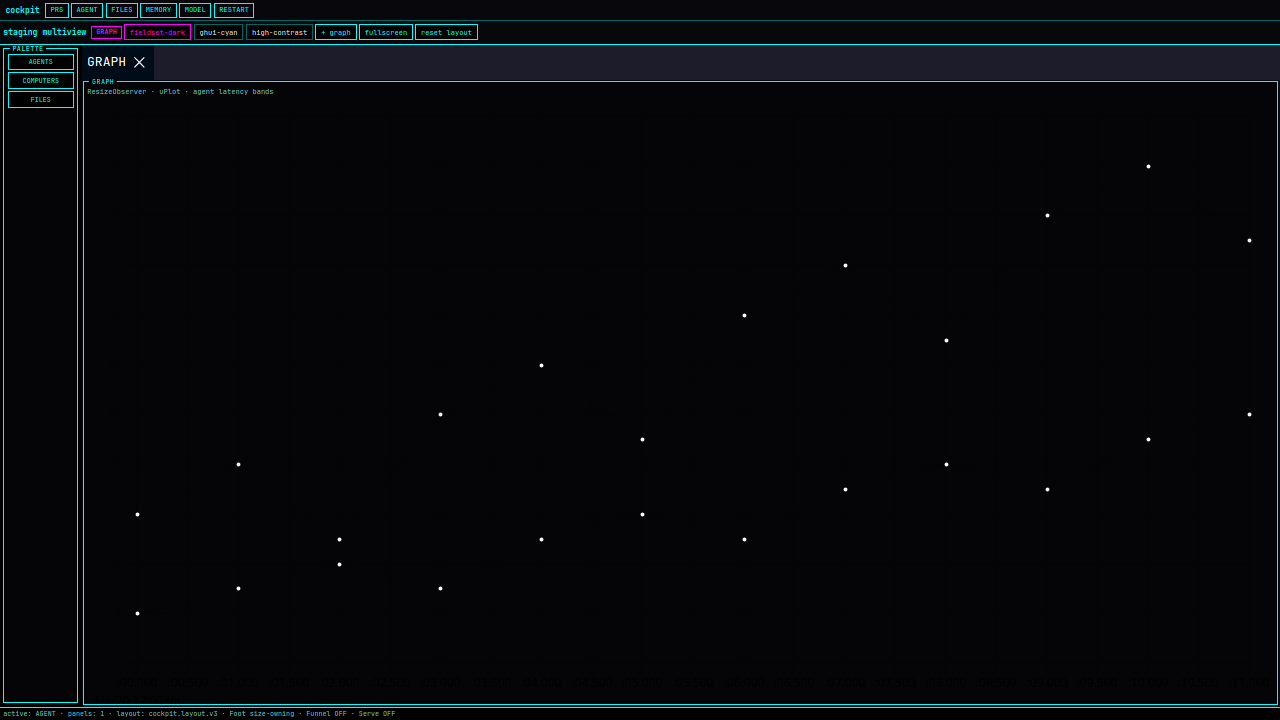
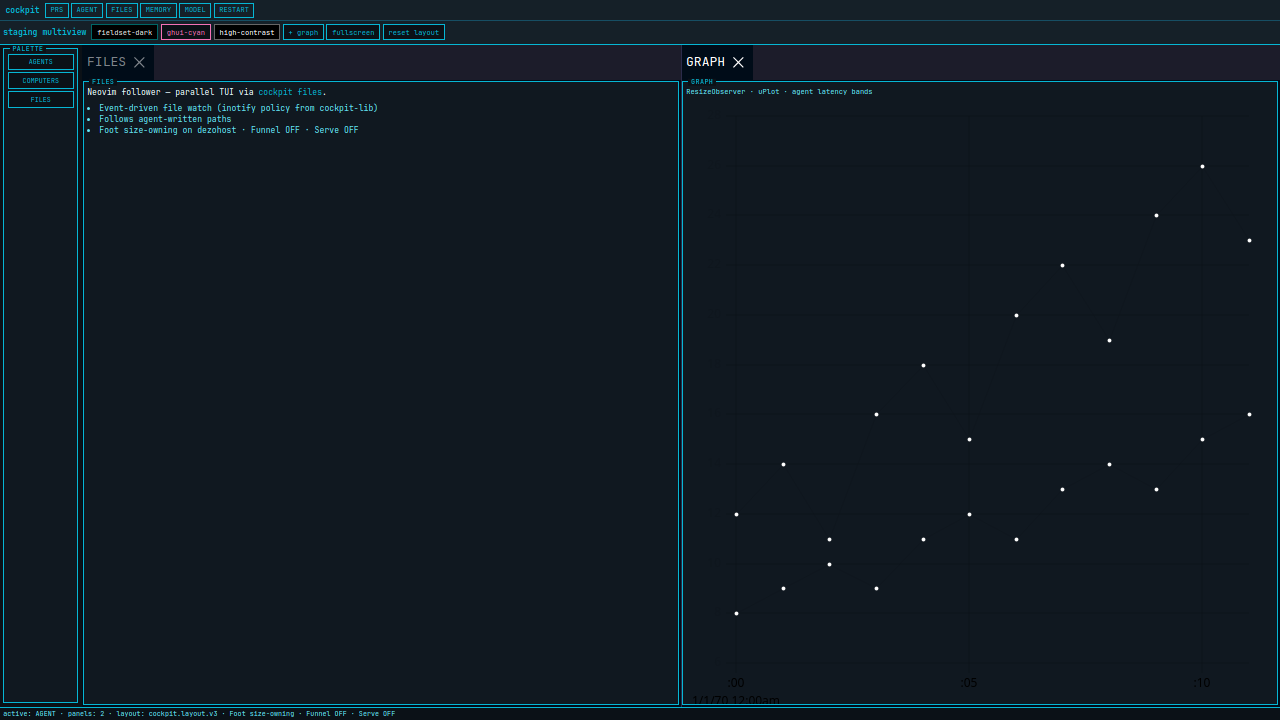
fix(t12u-next): Canon residual_hashes closure + distinct action-frame demos
- MANIFEST: residual_hashes (Hostinger-LIVE Canon) + residuals_closed_at
- verify-residuals.sh: assert 4 unique residual hashes + trio gate
- Soft-land distinct demos: ghui-cyan FILES-only theme proof; FILES+GRAPH graph/fullscreen; focus on ghui-cyan switcher
- Score t12u-live-cpr: residuals_closed, kick_ready
- Draft PR only; no Release remint (v2.2.1 waits Dezocode)

diff --git a/app/src/components/StagingMultiview.tsx b/app/src/components/StagingMultiview.tsx
@@ -179,22 +179,10 @@ export function StagingMultiview() {
         });
         syncCount(event.api);
       } else if (demoMode === "graph") {
-        event.api.addPanel({
-          id: newPanelId("GRAPH"),
-          component: "staging",
-          title: "GRAPH",
-          params: { panelType: "GRAPH" },
-        });
-        syncCount(event.api);
-      } else if (demoMode === "fullscreen") {
-        containerRef.current?.setAttribute("data-screenshot-fullscreen", "1");
-        setFullscreen(true);
-      } else if (demoMode === "focus") {
-        window.setTimeout(() => {
-          document.querySelector<HTMLButtonElement>('[aria-label="Theme switcher"] button')?.focus();
-        }, 300);
-      } else if (demoMode === "theme-ghui-cyan") {
-        ["AGENTS", "COMPUTERS", "FILES"].forEach((t) => {
+        saveTheme("ghui-cyan");
+        applyTheme("ghui-cyan");
+        setTheme("ghui-cyan");
+        ["FILES", "GRAPH"].forEach((t) => {
           event.api.addPanel({
             id: newPanelId(t as StagingPanelType),
             component: "staging",
@@ -204,6 +192,51 @@ export function StagingMultiview() {
               ? { referencePanel: event.api.panels[event.api.panels.length - 1].id, direction: "right" }
               : undefined,
           });
+        });
+        syncCount(event.api);
+      } else if (demoMode === "fullscreen") {
+        saveTheme("ghui-cyan");
+        applyTheme("ghui-cyan");
+        setTheme("ghui-cyan");
+        ["FILES", "GRAPH"].forEach((t) => {
+          event.api.addPanel({
+            id: newPanelId(t as StagingPanelType),
+            component: "staging",
+            title: t,
+            params: { panelType: t as StagingPanelType },
+            position: event.api.panels.length
+              ? { referencePanel: event.api.panels[event.api.panels.length - 1].id, direction: "right" }
+              : undefined,
+          });
+        });
+        containerRef.current?.setAttribute("data-screenshot-fullscreen", "1");
+        setFullscreen(true);
+        syncCount(event.api);
+      } else if (demoMode === "focus") {
+        saveTheme("ghui-cyan");
+        applyTheme("ghui-cyan");
+        setTheme("ghui-cyan");
+        event.api.addPanel({
+          id: newPanelId("FILES"),
+          component: "staging",
+          title: "FILES",
+          params: { panelType: "FILES" },
+        });
+        syncCount(event.api);
+        window.setTimeout(() => {
+          document
+            .querySelector<HTMLButtonElement>('[aria-label="Theme switcher"] button[data-theme="ghui-cyan"]')
+            ?.focus();
+        }, 400);
+      } else if (demoMode === "theme-ghui-cyan") {
+        saveTheme("ghui-cyan");
+        applyTheme("ghui-cyan");
+        setTheme("ghui-cyan");
+        event.api.addPanel({
+          id: newPanelId("FILES"),
+          component: "staging",
+          title: "FILES",
+          params: { panelType: "FILES" },
         });
         syncCount(event.api);
       }
@@ -270,7 +303,6 @@ export function StagingMultiview() {
       <AgentBar onChip={onBarChip} providerLabel="AGENT" />
       <div className={styles.toolbar}>
         <span className={styles.brand}>staging multiview</span>
-        {demoMode && <span className={styles.demoBadge} data-demo={demoMode}>{demoMode}</span>}
         <ThemeSwitcher value={theme} onChange={setTheme} compact />
         <button type="button" className={styles.btn} onClick={() => addPanel("GRAPH")}>
           + graph

diff --git a/app/src/components/ThemeSwitcher.tsx b/app/src/components/ThemeSwitcher.tsx
@@ -21,6 +21,7 @@ export function ThemeSwitcher({ value, onChange, compact }: ThemeSwitcherProps) 
               saveTheme(t.id);
               onChange(t.id);
             }}
+            data-theme={t.id}
           >
             {t.label}
           </button>
